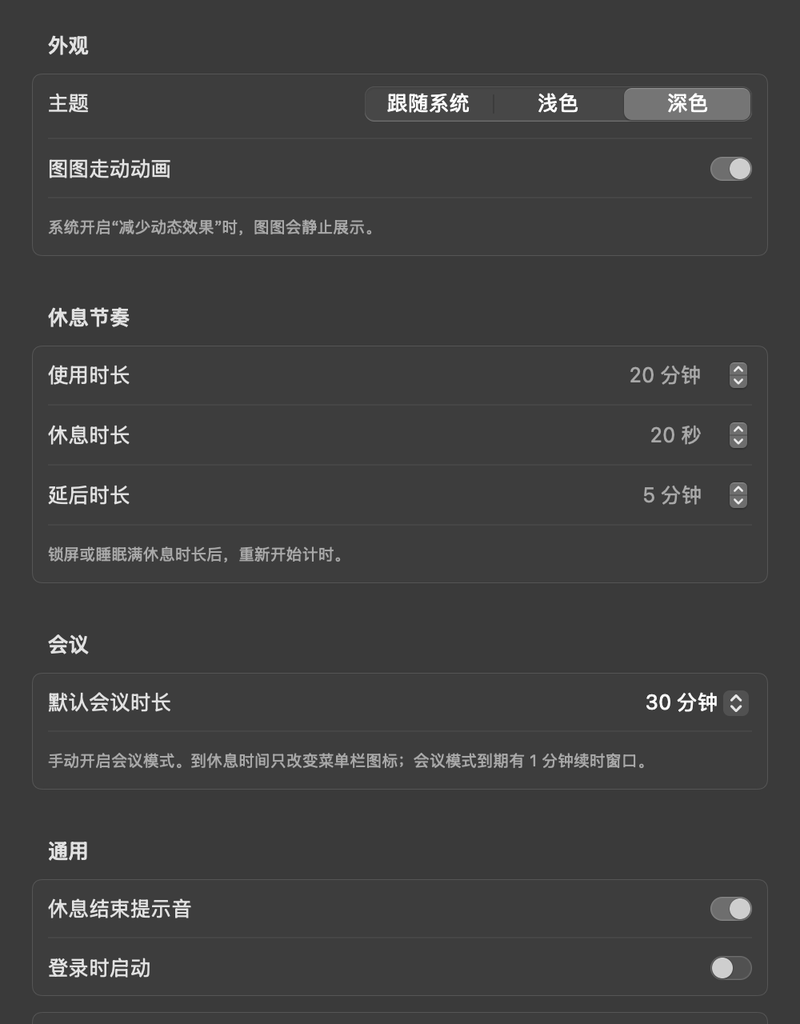
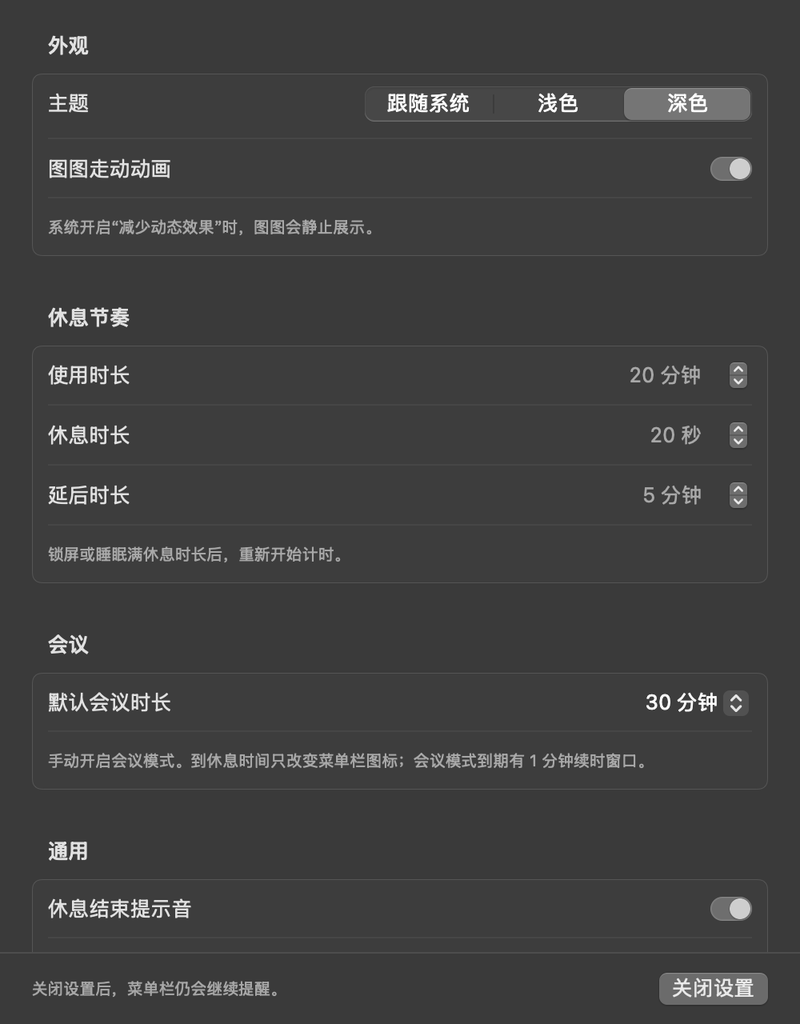
fix: 关闭设置时释放窗口并补充关闭入口与回归检查

Changed region(s): [[0.8125, 0.9375, 0.9688, 1.0], [0.0312, 0.9375, 0.3438, 0.9688]]

diff --git a/Sources/EyeRestApp/main.swift b/Sources/EyeRestApp/main.swift
@@ -10,7 +10,7 @@ final class RestPanel: NSPanel {
     }
 }
 
-@MainActor final class AppDelegate: NSObject, NSApplicationDelegate {
+@MainActor final class AppDelegate: NSObject, NSApplicationDelegate, NSWindowDelegate {
     let diagnostic = CommandLine.arguments.contains("--smoke-test")
     lazy var model = AppModel(diagnostic: diagnostic)
     private var statusItem: NSStatusItem!
@@ -63,6 +63,7 @@ final class RestPanel: NSPanel {
         let item = NSMenuItem()
         let appMenu = NSMenu()
         appMenu.addItem(withTitle: "设置…", action: #selector(settingsAction), keyEquivalent: ",").target = self
+        appMenu.addItem(withTitle: "关闭设置窗口", action: #selector(closeSettingsAction), keyEquivalent: "w").target = self
         appMenu.addItem(.separator())
         appMenu.addItem(withTitle: "退出休息一下", action: #selector(NSApplication.terminate(_:)), keyEquivalent: "q")
         item.submenu = appMenu
@@ -80,6 +81,15 @@ final class RestPanel: NSPanel {
         popover.contentViewController?.view.window?.makeKey()
     }
     @objc private func settingsAction() { openSettings() }
+    @objc private func closeSettingsAction() { settingsWindow?.performClose(nil) }
+
+    func windowWillClose(_ notification: Notification) {
+        guard let window = notification.object as? NSWindow, window === settingsWindow else { return }
+        // Release the settings host instead of retaining a closed glass-backed window.
+        window.orderOut(nil)
+        settingsWindow = nil
+        DispatchQueue.main.async { window.contentViewController = nil }
+    }
 
     private func openSettings() {
         popover.performClose(nil)
@@ -88,9 +98,18 @@ final class RestPanel: NSPanel {
             window.title = "设置"
             window.isOpaque = false
             window.backgroundColor = .clear
-            window.titlebarAppearsTransparent = true
+            // Keep the native title bar and close hit target separate from glass content.
+            window.titlebarAppearsTransparent = false
             window.isReleasedWhenClosed = false
-            window.contentViewController = NSHostingController(rootView: SettingsView(model: model))
+            window.delegate = self
+            let controller = NSHostingController(rootView: SettingsView(model: model, onClose: { [weak self] in
+                self?.closeSettingsAction()
+            }))
+            controller.sizingOptions = []
+            controller.view.frame = NSRect(x: 0, y: 0, width: 500, height: 640)
+            controller.view.autoresizingMask = [.width, .height]
+            window.contentViewController = controller
+            window.setContentSize(NSSize(width: 500, height: 640))
             window.center()
             settingsWindow = window
         }
@@ -239,6 +258,39 @@ final class RestPanel: NSPanel {
         }
         later(1.1) {
             capture(self.settingsWindow!.contentView!, "settings-light")
+            let firstSettings = self.settingsWindow!
+            guard let closeButton = firstSettings.standardWindowButton(.closeButton), closeButton.isEnabled else {
+                log("FAIL native settings close button unavailable"); exit(1)
+            }
+            closeButton.performClick(nil)
+            guard !firstSettings.isVisible, self.settingsWindow == nil else {
+                log("FAIL native close retained settings window"); exit(1)
+            }
+            self.model.diagnosticAdvance(1)
+            self.syncWindows()
+            guard !firstSettings.isVisible, self.settingsWindow == nil else {
+                log("FAIL timer reopened closed settings"); exit(1)
+            }
+            self.openSettings()
+            guard let secondSettings = self.settingsWindow, secondSettings !== firstSettings, secondSettings.isVisible,
+                  let closeKey = NSEvent.keyEvent(with: .keyDown, location: .zero, modifierFlags: [.command], timestamp: ProcessInfo.processInfo.systemUptime, windowNumber: secondSettings.windowNumber, context: nil, characters: "w", charactersIgnoringModifiers: "w", isARepeat: false, keyCode: 13),
+                  self.model.engine.phase == .working else {
+                log("FAIL settings reopen or background work state"); exit(1)
+            }
+            guard NSApp.mainMenu?.performKeyEquivalent(with: closeKey) == true, !secondSettings.isVisible, self.settingsWindow == nil else {
+                log("FAIL Command-W did not close settings"); exit(1)
+            }
+            self.openSettings()
+            guard let footerSettings = self.settingsWindow,
+                  let settingsHost = footerSettings.contentViewController as? NSHostingController<SettingsView> else {
+                log("FAIL settings close action unavailable"); exit(1)
+            }
+            settingsHost.rootView.onClose()
+            guard !footerSettings.isVisible, self.settingsWindow == nil else {
+                log("FAIL settings footer action did not close window"); exit(1)
+            }
+            log("PASS settings: native close, Command-W, footer action, timer stays closed, fresh reopen")
+            self.openSettings()
             self.model.requestRest()
             later(0.7) {
                 guard let panel = self.overlays.first else { log("FAIL overlay absent"); exit(1) }
@@ -301,7 +353,9 @@ final class RestPanel: NSPanel {
                                 }
                                 log("Local key resets rest: \(before) → \(self.model.engine.restRemaining)")
                                 capture(self.overlays.first!.contentView!, "active-rest")
-                                later(2.5) {
+                                // Rendering a full-resolution glass snapshot may delay the main loop.
+                                // Allow a fresh uninterrupted rest after such a delay resets the timer.
+                                later(4.5) {
                                     log("Real timer rest completed: \(self.model.engine.completedRests), overlays: \(self.overlays.count)")
                                     guard self.model.engine.phase == .awaitingReturn, self.overlays.isEmpty, self.popover.isShown else {
                                         log("FAIL return prompt missing"); exit(1)

diff --git a/Sources/EyeRestApp/Views.swift b/Sources/EyeRestApp/Views.swift
@@ -219,7 +219,9 @@ struct ReturnReadyView: View {
 
 struct SettingsView: View {
     @ObservedObject var model: AppModel
+    var onClose: () -> Void
     var body: some View {
+        VStack(spacing: 0) {
         Form {
             Section("外观") {
                 Picker("主题", selection: preference(\.appearance)) {
@@ -262,6 +264,16 @@ struct SettingsView: View {
         }
         .formStyle(.grouped)
         .scrollContentBackground(.hidden)
+            Divider()
+            HStack {
+                Text("关闭设置后，菜单栏仍会继续提醒。")
+                    .font(.caption).foregroundStyle(.secondary)
+                Spacer()
+                Button("关闭设置", action: onClose)
+                    .keyboardShortcut(.cancelAction)
+                    .accessibilityIdentifier("close-settings")
+            }.padding(.horizontal, 20).padding(.vertical, 12)
+        }
         .background(GlassBackground(material: .underWindowBackground))
         .frame(width: 500, height: 640)
         .preferredColorScheme(model.preferences.appearance.scheme)

diff --git a/docs/behavior.md b/docs/behavior.md
@@ -67,6 +67,7 @@
 - 使用时长 1–120 分钟，休息时长 10–300 秒，延后时长 1–30 分钟。
 - 修改时长保留当前阶段已经经过的时间；等待下一轮时按最新设置开启。
 - 外观默认为跟随系统；可指定浅色或深色。
+- 设置窗口使用原生标题栏，支持 ×、底部关闭按钮、`⌘W` 和 `Esc`；关闭时销毁窗口和界面实例，计时更新不能重新打开。关闭设置保留菜单栏提醒，退出应用需使用菜单栏「退出」或 `⌘Q`。
 - 系统减少动态效果时停止图图走动；减少透明度时全屏采用不透明背景。
 - 登录启动默认关闭，需用户主动开启；系统可能要求在登录项设置中批准。
 - 退出再启动从新的使用周期开始，不恢复之前的剩余时间。

diff --git a/docs/testing.md b/docs/testing.md
@@ -80,6 +80,7 @@ mkdir -p build/verification
 - 使用短时长驱动真实计时器，向应用自己的窗口发送局部事件验证休息重置。
 - 全局活动判断以注入的事件计数进行确定性检查，避免用户正常操作干扰测试，不向桌面发送全局模拟输入。
 - 检查所有菜单栏状态符号是否存在。
+- 回归设置窗口：实际触发原生 × 按钮、菜单的 `⌘W` 快捷键和底部关闭回调，确认窗口不可见、实例已释放、计时更新不重新打开；再次打开创建新窗口，关闭设置后工作状态继续。
 - 截图只渲染应用自己的原生视图，不采集屏幕、其他应用或桌面内容。
 - 成功时日志最后包含 `SMOKE TEST COMPLETE`；发现失败应检查 `FAIL` 行和退出码。
 

diff --git a/README.md b/README.md
@@ -153,6 +153,12 @@ open "$HOME/Applications/休息一下.app"
 
 每次重新启动应用会从新的使用周期开始，暂不保存退出前的剩余时间。
 
+### 关闭设置与退出应用
+
+- 设置页可通过标题栏 **×**、底部「关闭设置」、`⌘W` 或 `Esc` 关闭。关闭后释放设置窗口，再次打开会重新创建，不会被后台计时重新弹出。
+- **关闭设置不等于退出应用**：菜单栏仍会继续计时和提醒，这是菜单栏应用的正常行为。
+- 若要停止后台运行，请点击菜单栏图标选择「退出」，或在应用激活时按 `⌘Q`。
+
 ## 隐私与权限
 
 - 使用 Core Graphics 的**会话事件计数**及本应用的局部事件判断活动。
